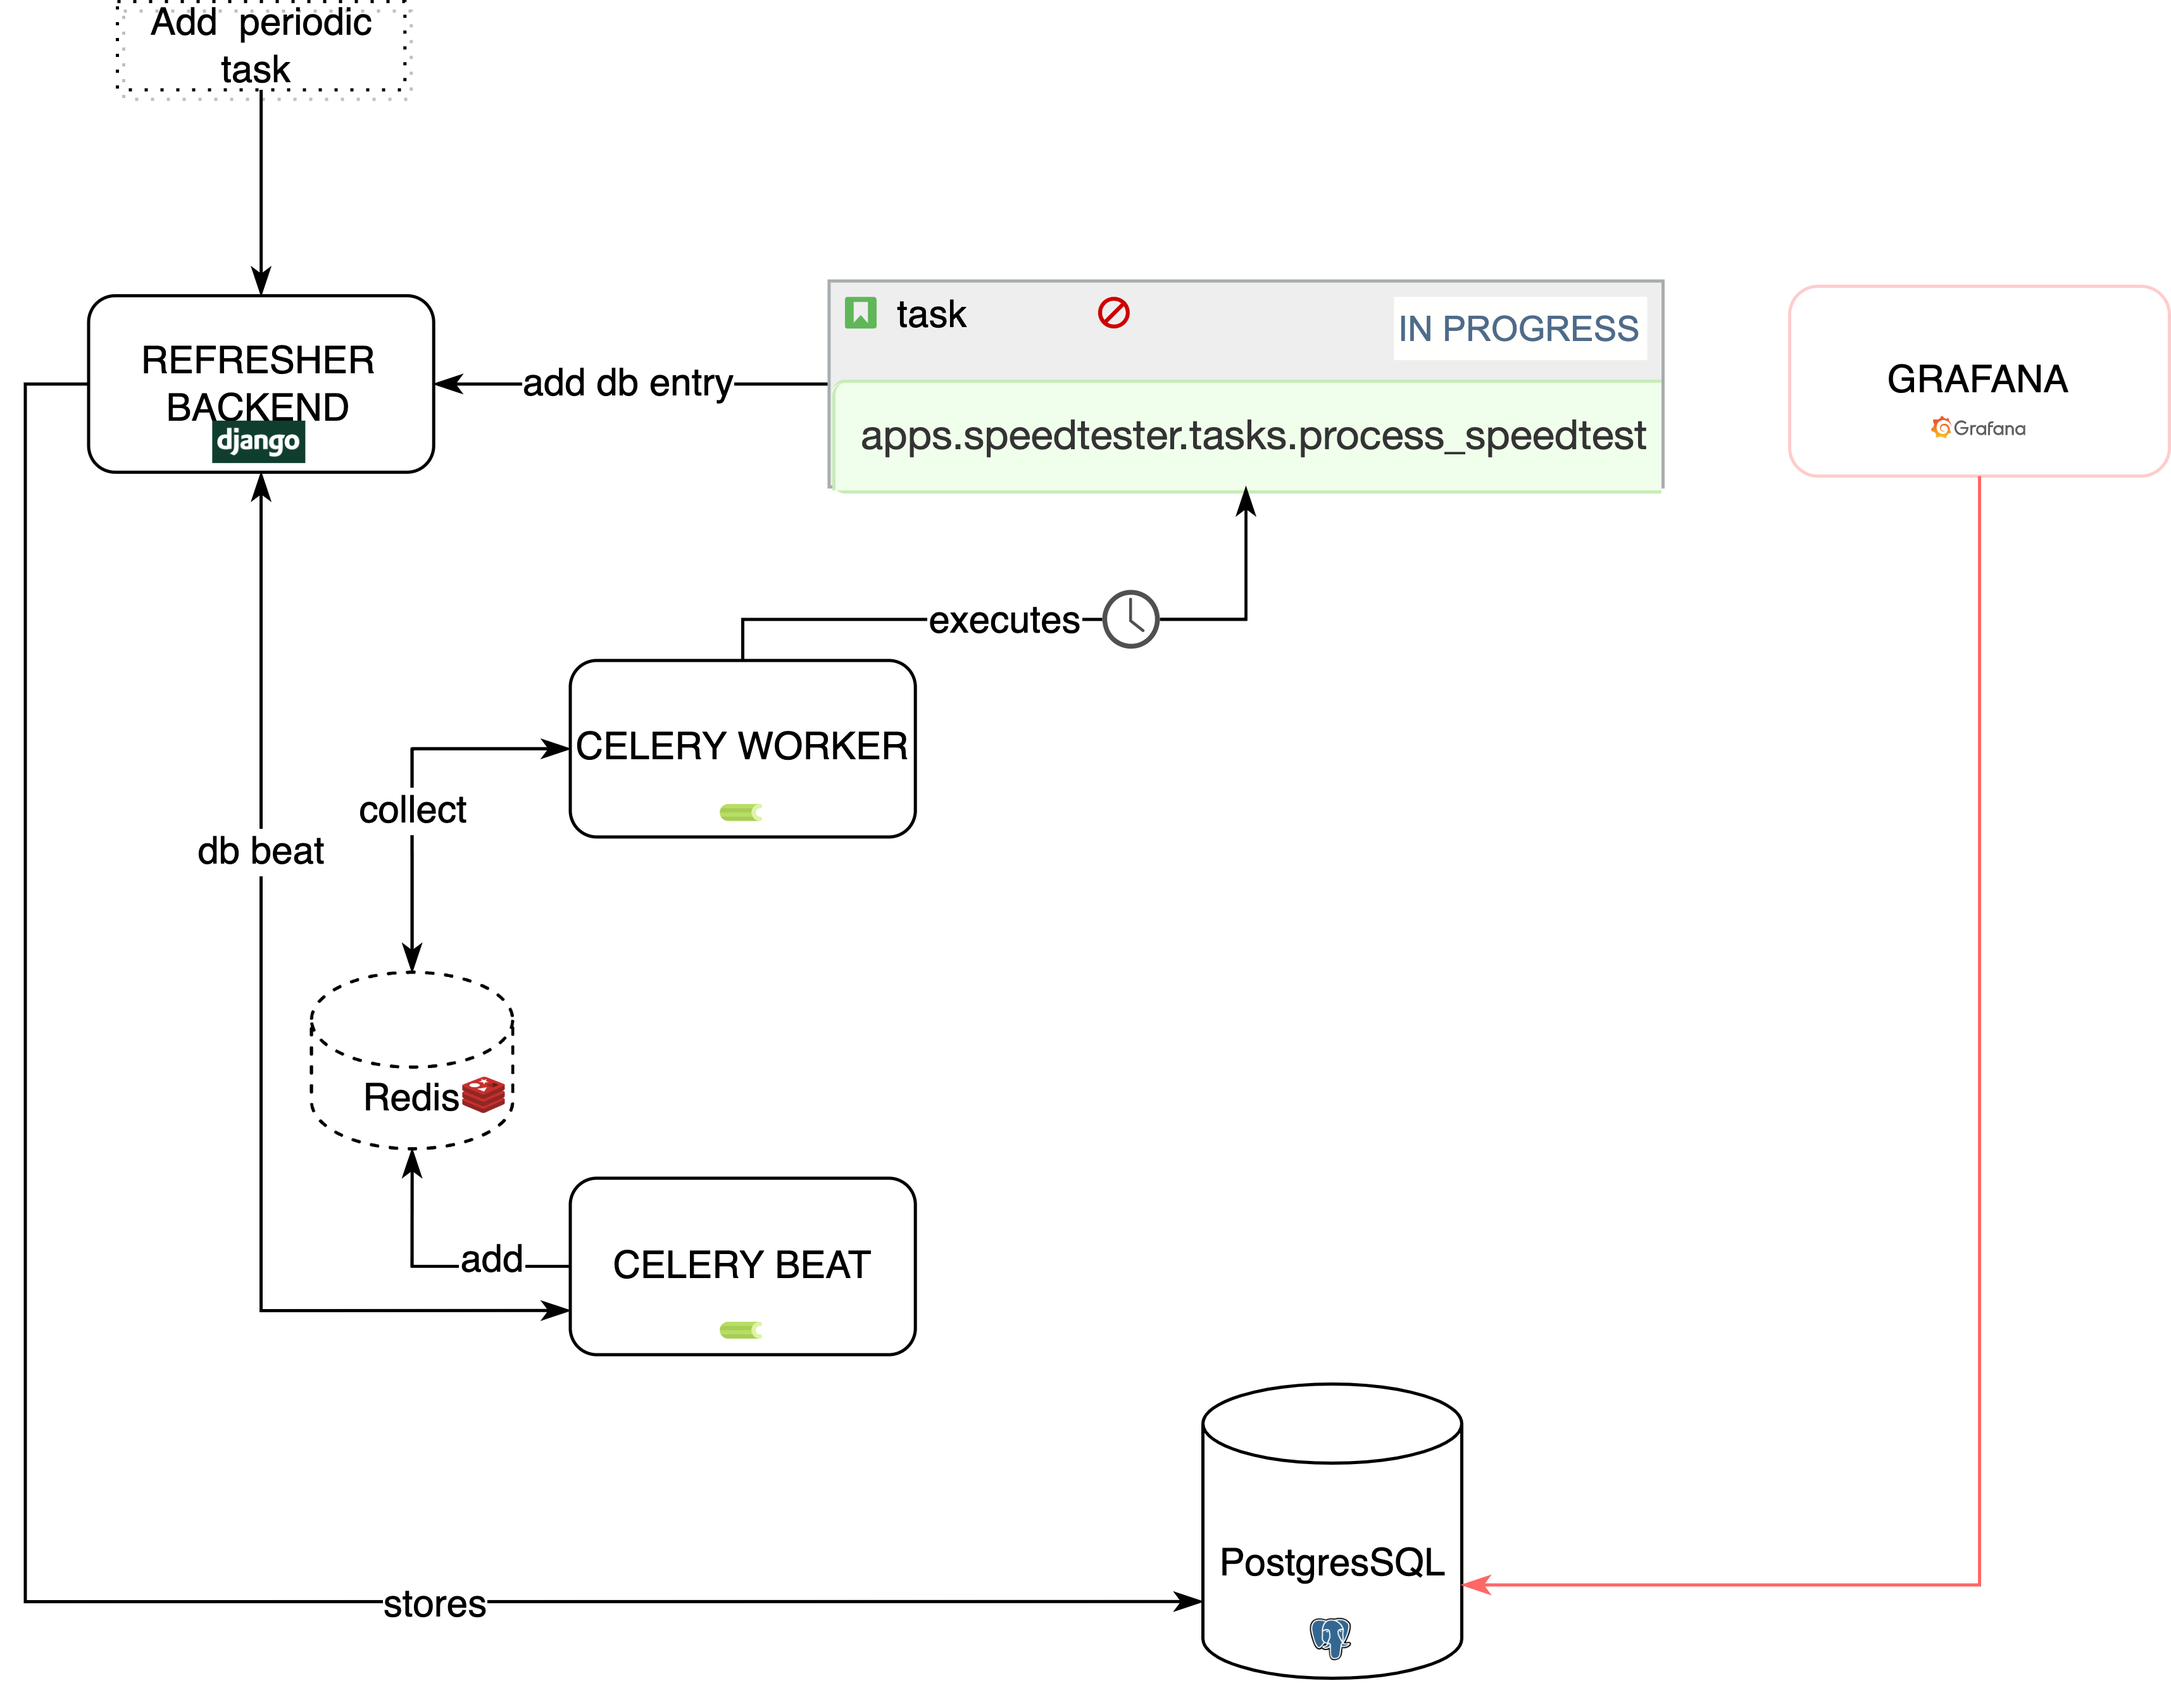
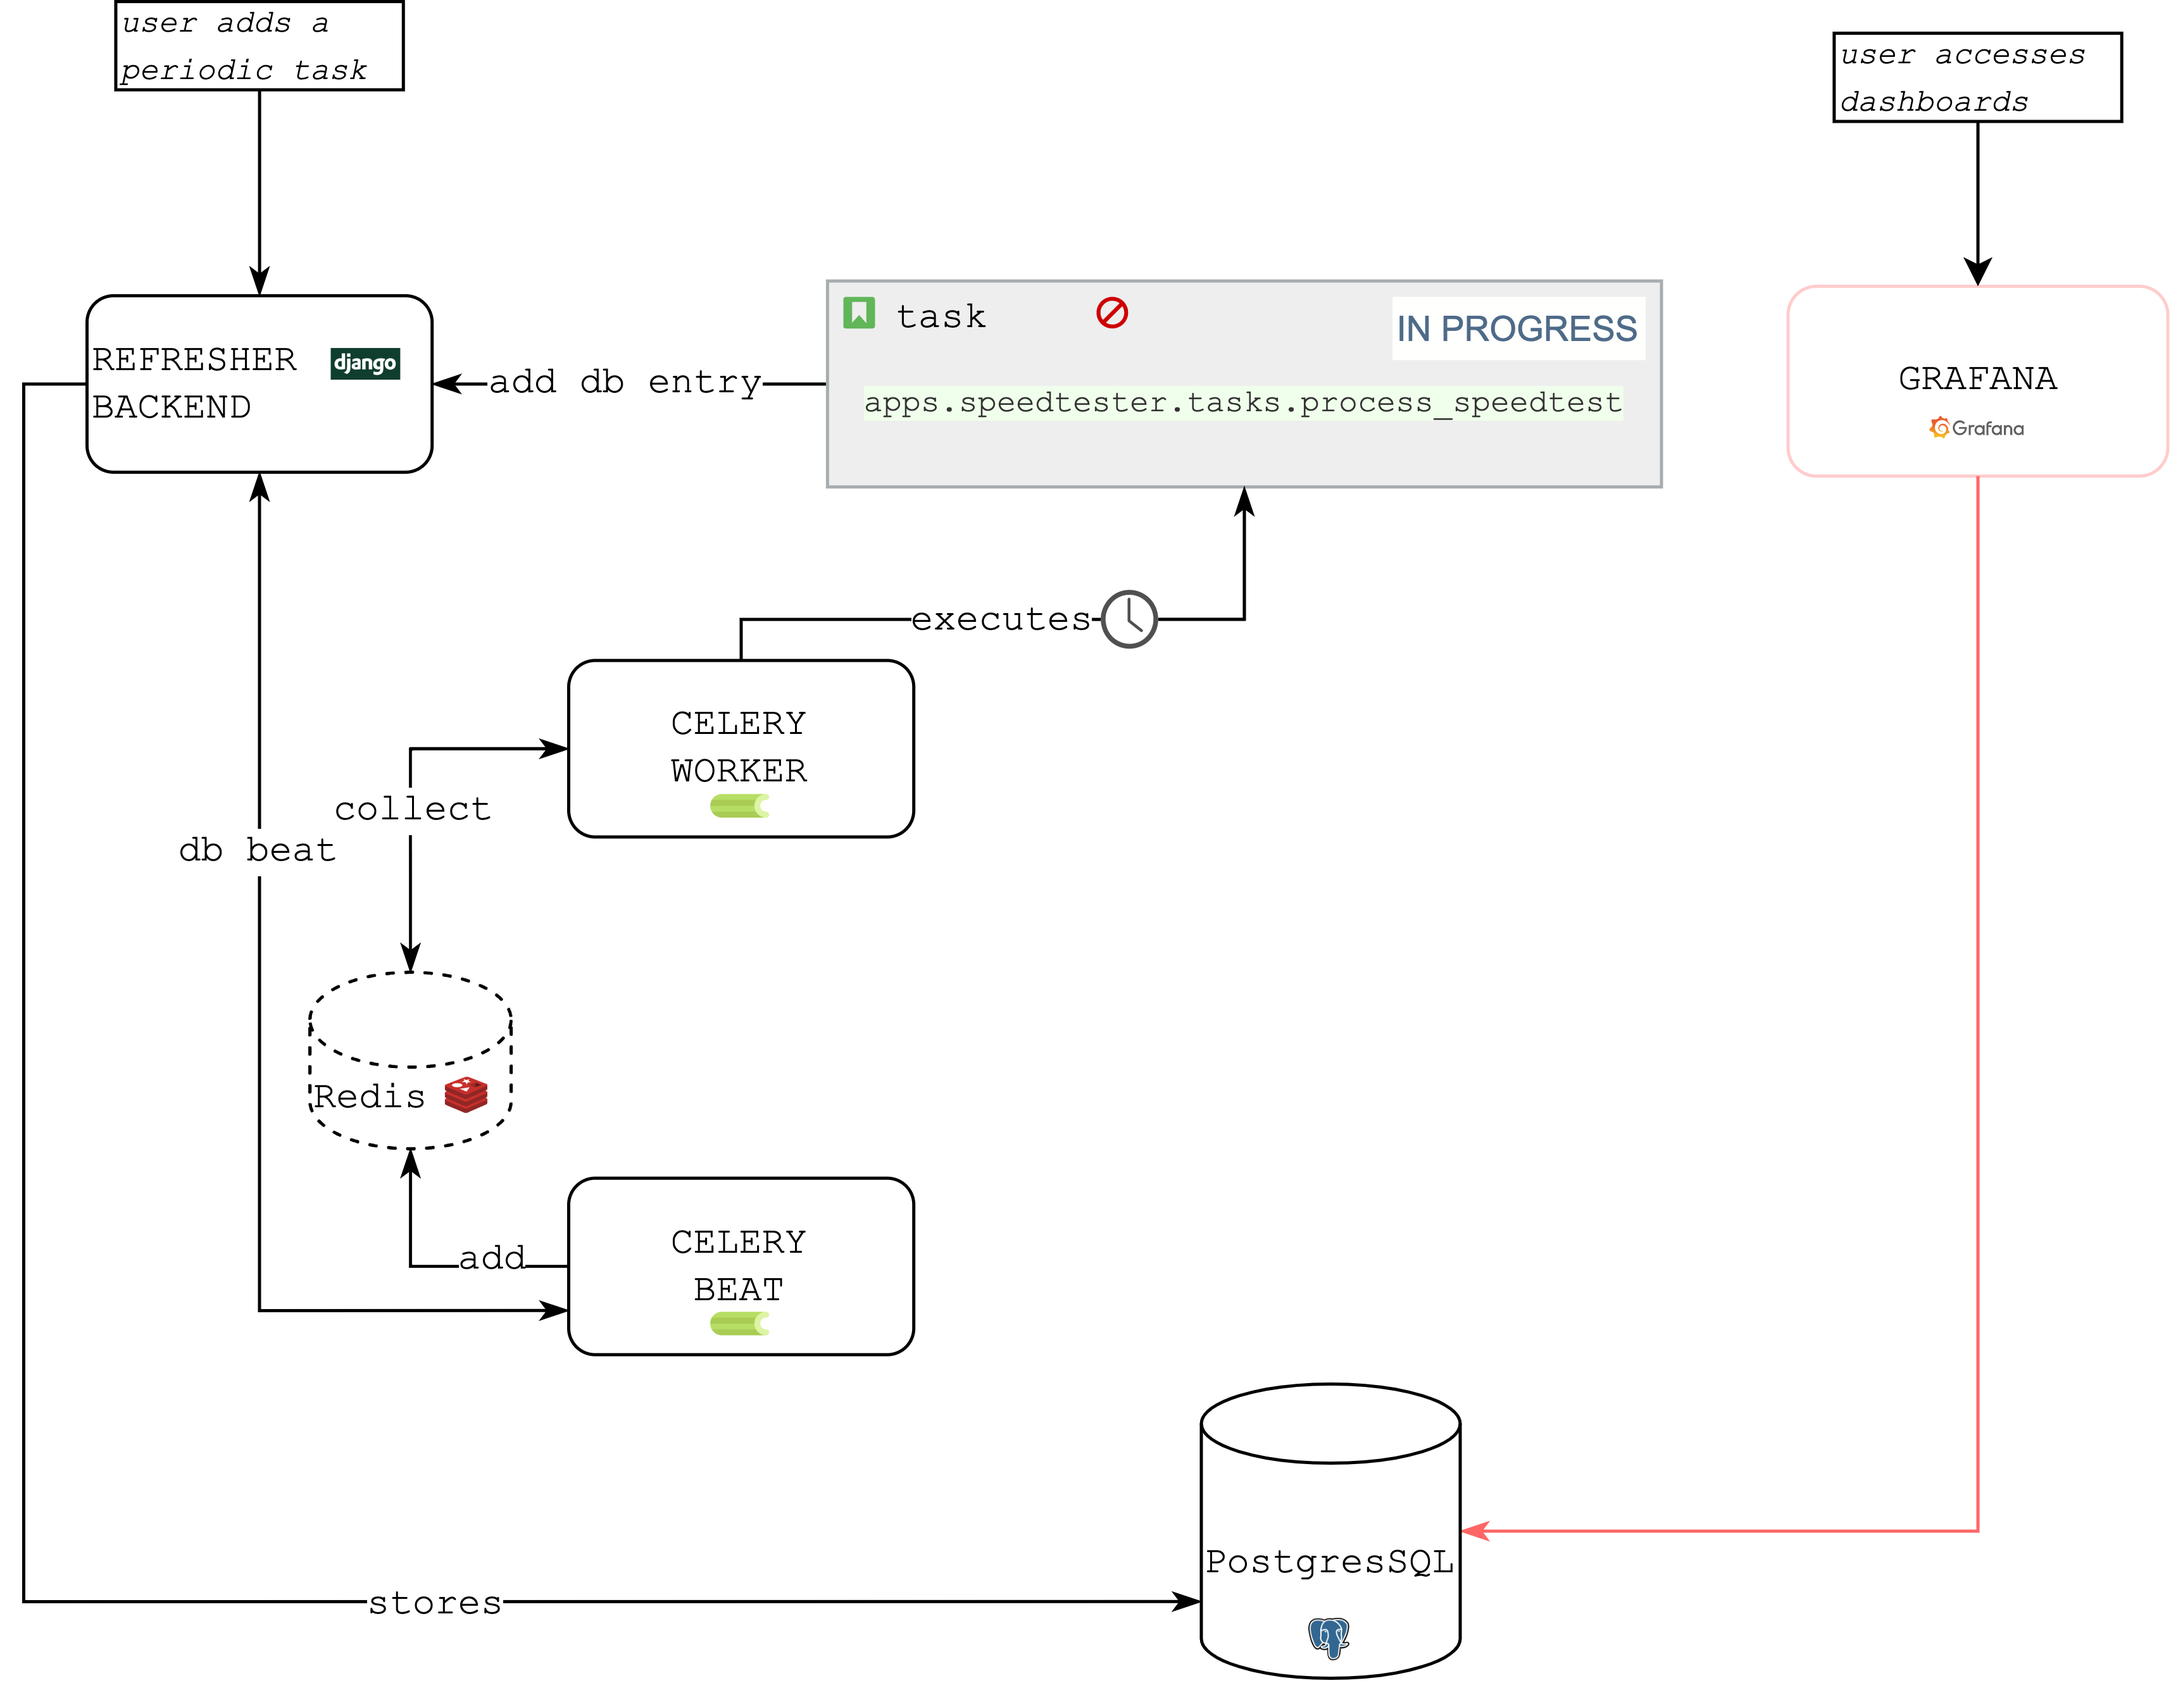
[REF-16] [MODIFIED] Diagrams and charts

diff --git a/README.md b/README.md
@@ -179,4 +179,4 @@ So meanwhile, *SWAG* takes care of distributing, securing and routing of our thr
 ## GitHub
 1. CI
 2. workflows
-3. codecov4. 
+3. codecov. 
